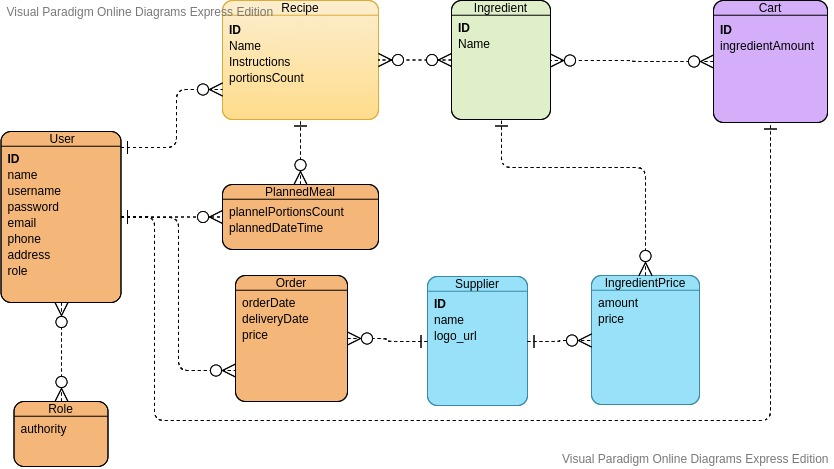
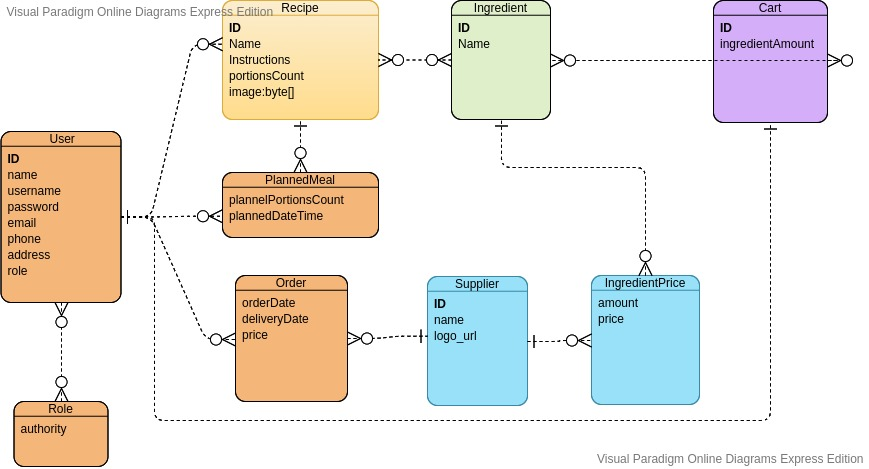
added recipes/all page

diff --git a/src/main/resources/templates/recipe/all-recipes.html b/src/main/resources/templates/recipe/all-recipes.html
@@ -1,0 +1,43 @@
+<!DOCTYPE html>
+<html lang="en"  xmlns:th="http://www.thymeleaf.org">
+<head>
+    <th:block th:include="~{fragments/head}"></th:block>
+</head>
+<body>
+<div class="container-fluid">
+    <header>
+        <th:block th:include="~{fragments/nav-bar}"></th:block>
+    </header>
+    <main class="mt-5">
+        <div class="bg-image-quote-all">
+            <span style="visibility: hidden">....</span>
+            <h1 class="text-center bold font-weight-bold text-dark">All recipes</h1>
+            <hr class="hr-2 bg-dark">
+            <table class="table table-hover w-75 mx-auto">
+                <thead>
+                <tr class="row mx-auto">
+                    <th class="col-md-1 text-center">#</th>
+                    <th class="col-md-3 text-center">Recipe Image</th>
+                    <th class="col-md-3 text-center">Recipe Name</th>
+                </tr>
+                </thead>
+                <tbody>
+                <th:block th:each="recipes, iter : ${recipes}">
+                    <tr class="row mx-auto">
+                        <th class="col-md-1 text-center" th:utext="${iter.index + 1}"></th>
+                        <td class="col-md-3 text-center" th:utext="${recipes.image}"></td>
+                        <td class="col-md-3 text-center" th:utext="${recipes.name}"></td>
+                    </tr>
+                </th:block>
+                </tbody>
+            </table>
+            <hr class="hr-2 bg-dark">
+            <span style="visibility: hidden">....</span>
+        </div>
+    </main>
+    <footer>
+        <th:block th:include="~{fragments/footer}"></th:block>
+    </footer>
+</div>
+</body>
+</html>

diff --git a/src/main/resources/templates/fragments/nav-bar.html b/src/main/resources/templates/fragments/nav-bar.html
@@ -53,10 +53,7 @@
                             <a class="nav-link" th:href="@{/users/profile}">Profile</a>
                         </li>
                         <li class="nav-item active">
-                            <a class="nav-link" th:href="@{/recipe/create}">Create Recipe</a>
-                        </li>
-                        <li class="nav-item active">
-                            <a class="nav-link" th:href="@{/products/all}">Shop</a>
+                            <a class="nav-link" th:href="@{/recipes/all}">All Recipes</a>
                         </li>
                         <li class="nav-item-active">
                             <form action="/logout?login" method="post">

diff --git a/src/main/java/softuni/meal_plan/model/service/RecipeServiceModel.java b/src/main/java/softuni/meal_plan/model/service/RecipeServiceModel.java
@@ -1,11 +1,11 @@
-package softuni.meal_plan.model.entity;
+package softuni.meal_plan.model.service;
 
-import javax.persistence.*;
+import softuni.meal_plan.model.entity.Ingredient;
+import softuni.meal_plan.model.entity.User;
+
 import java.util.List;
 
-@Entity
-@Table(name = "recipes")
-public class Recipe extends BaseEntity {
+public class RecipeServiceModel extends BaseServiceModel {
     private String name;
     private byte[] image;
     private String instructions;
@@ -13,10 +13,6 @@ public class Recipe extends BaseEntity {
     private User author;
     private List<Ingredient> ingredients;
 
-    public Recipe() {
-    }
-
-    @Column(name = "name", nullable = false)
     public String getName() {
         return name;
     }
@@ -25,7 +21,6 @@ public class Recipe extends BaseEntity {
         this.name = name;
     }
 
-    @Column(name = "image", nullable = false)
     public byte[] getImage() {
         return image;
     }
@@ -34,7 +29,6 @@ public class Recipe extends BaseEntity {
         this.image = image;
     }
 
-    @Column(name = "instructions", nullable = false, columnDefinition="TEXT")
     public String getInstructions() {
         return instructions;
     }
@@ -43,7 +37,6 @@ public class Recipe extends BaseEntity {
         this.instructions = instructions;
     }
 
-    @Column(name = "portions_count", nullable = false)
     public int getPortionsCount() {
         return portionsCount;
     }
@@ -52,7 +45,6 @@ public class Recipe extends BaseEntity {
         this.portionsCount = portionsCount;
     }
 
-    @ManyToOne
     public User getAuthor() {
         return author;
     }
@@ -61,19 +53,6 @@ public class Recipe extends BaseEntity {
         this.author = author;
     }
 
-
-    @ManyToMany(targetEntity = Ingredient.class, fetch = FetchType.EAGER)
-    @JoinTable(
-            name = "recipe_ingredients",
-            joinColumns = @JoinColumn(
-                    name = "recipe_id",
-                    referencedColumnName = "id"
-            ),
-            inverseJoinColumns = @JoinColumn(
-                    name = "ingredient_id",
-                    referencedColumnName = "id"
-            )
-    )
     public List<Ingredient> getIngredients() {
         return ingredients;
     }

diff --git a/src/main/java/softuni/meal_plan/web/RecipeController.java b/src/main/java/softuni/meal_plan/web/RecipeController.java
@@ -1,0 +1,39 @@
+package softuni.meal_plan.web;
+
+import org.modelmapper.ModelMapper;
+import org.springframework.beans.factory.annotation.Autowired;
+import org.springframework.stereotype.Controller;
+import org.springframework.web.bind.annotation.GetMapping;
+import org.springframework.web.bind.annotation.RequestMapping;
+import org.springframework.web.servlet.ModelAndView;
+import softuni.meal_plan.model.service.RecipeServiceModel;
+import softuni.meal_plan.service.RecipeService;
+import softuni.meal_plan.web.annotations.PageTitle;
+
+import java.util.List;
+import java.util.stream.Collectors;
+
+@Controller
+@RequestMapping("/recipes")
+public class RecipeController extends BaseController{
+    private final ModelMapper modelMapper;
+    private final RecipeService recipeService;
+
+    @Autowired
+    public RecipeController(ModelMapper modelMapper, RecipeService recipeService) {
+        this.modelMapper = modelMapper;
+        this.recipeService = recipeService;
+    }
+
+    @GetMapping("/all")
+    @PageTitle("All recipes")
+    public ModelAndView showAllRecipes(ModelAndView modelAndView) {
+        List<RecipeServiceModel> recipes = this.recipeService.findAllRecipes()
+                .stream()
+                .map(r -> this.modelMapper.map(r, RecipeServiceModel.class))
+                .collect(Collectors.toList());
+
+        modelAndView.addObject("recipes",recipes);
+        return super.view("recipe/all-recipes", modelAndView);
+    }
+}

diff --git a/src/main/java/softuni/meal_plan/service/impl/RecipeServiceImpl.java b/src/main/java/softuni/meal_plan/service/impl/RecipeServiceImpl.java
@@ -1,0 +1,37 @@
+package softuni.meal_plan.service.impl;
+
+import org.modelmapper.ModelMapper;
+import org.springframework.beans.factory.annotation.Autowired;
+import org.springframework.stereotype.Service;
+import softuni.meal_plan.model.service.RecipeServiceModel;
+import softuni.meal_plan.repository.RecipeRepository;
+import softuni.meal_plan.service.RecipeService;
+
+import java.util.List;
+import java.util.stream.Collectors;
+
+@Service
+public class RecipeServiceImpl implements RecipeService {
+
+    private final RecipeRepository recipeRepository;
+    private final ModelMapper modelMapper;
+
+    @Autowired
+    public RecipeServiceImpl(RecipeRepository recipeRepository, ModelMapper modelMapper) {
+        this.recipeRepository = recipeRepository;
+        this.modelMapper = modelMapper;
+    }
+
+    @Override
+    public RecipeServiceModel addRecipe(RecipeServiceModel recipeServiceModel) {
+        return null;
+    }
+
+    @Override
+    public List<RecipeServiceModel> findAllRecipes() {
+        return this.recipeRepository.findAll()
+                .stream()
+                .map(r -> this.modelMapper.map(r, RecipeServiceModel.class))
+                .collect(Collectors.toList());
+    }
+}

diff --git a/src/main/java/softuni/meal_plan/repository/RecipeRepository.java b/src/main/java/softuni/meal_plan/repository/RecipeRepository.java
@@ -1,0 +1,9 @@
+package softuni.meal_plan.repository;
+
+import org.springframework.data.jpa.repository.JpaRepository;
+import org.springframework.stereotype.Repository;
+import softuni.meal_plan.model.entity.Recipe;
+
+@Repository
+public interface RecipeRepository extends JpaRepository<Recipe, String> {
+}

diff --git a/src/main/java/softuni/meal_plan/service/RecipeService.java b/src/main/java/softuni/meal_plan/service/RecipeService.java
@@ -1,0 +1,13 @@
+package softuni.meal_plan.service;
+
+import softuni.meal_plan.model.service.RecipeServiceModel;
+
+import java.util.List;
+
+public interface RecipeService {
+
+    RecipeServiceModel addRecipe(RecipeServiceModel recipeServiceModel);
+
+    List<RecipeServiceModel> findAllRecipes();
+
+}

diff --git a/src/main/java/softuni/meal_plan/model/binding/RecipeAddBindingModel.java b/src/main/java/softuni/meal_plan/model/binding/RecipeAddBindingModel.java
@@ -1,0 +1,4 @@
+package softuni.meal_plan.model.binding;
+
+public class RecipeAddBindingModel {
+}
